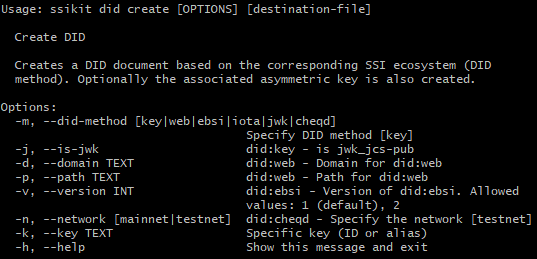
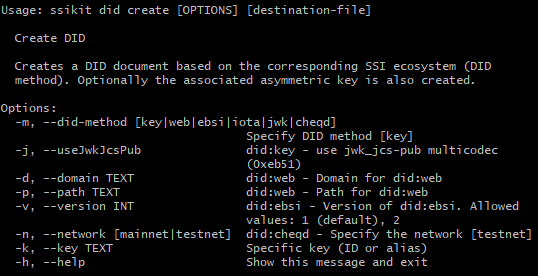
fix: did:key jwk_jcs-pub (#20)

diff --git a/getting-started/cli-command-line-interface/decentralized-identifiers.md b/getting-started/cli-command-line-interface/decentralized-identifiers.md
@@ -33,7 +33,8 @@ Creates a DID document using `did create [options]` command based on the corresp
 * `-p, --path TEXT` - Path for did:web
 * `-v, --version INT` - Version of did:ebsi. Allowed values: 1 (default), 2
 * `-n, --network [testnet | mainnet]` - cheqd network, default is `testnet`
-* `-j, --is-jwk` - flag to create a `did:key` using a _jwk_jcs-pub_ public key type (multicodec code: `0xeb51`)
+* `-j, --useJwkJcsPub` - specifies whether to create a did:key using the jwk_jcs-pub multicodec
+  (code: [0xeb51](https://github.com/multiformats/multicodec/blob/master/table.csv#L516))
 
 The returned value represents the DID document.
 

diff --git a/getting-started/rest-apis/core-api/decentralised-identifiers.md b/getting-started/rest-apis/core-api/decentralised-identifiers.md
@@ -234,10 +234,11 @@ Below are the available properties by _did-method_.
 {
     "method": "key",
     "keyAlias": "string",
-    "isJwk": "boolean"
+    "useJwkJcsPub": "boolean"
 }
 ```
-* `isJwk` (default) - _false_
+* `useJwkJcsPub` (default) - _false_ - specifies whether to create a did:key using the jwk_jcs-pub multicodec
+(code: [0xeb51](https://github.com/multiformats/multicodec/blob/master/table.csv#L516))
 
 {% endtab %}
 {% tab title="web" %}
